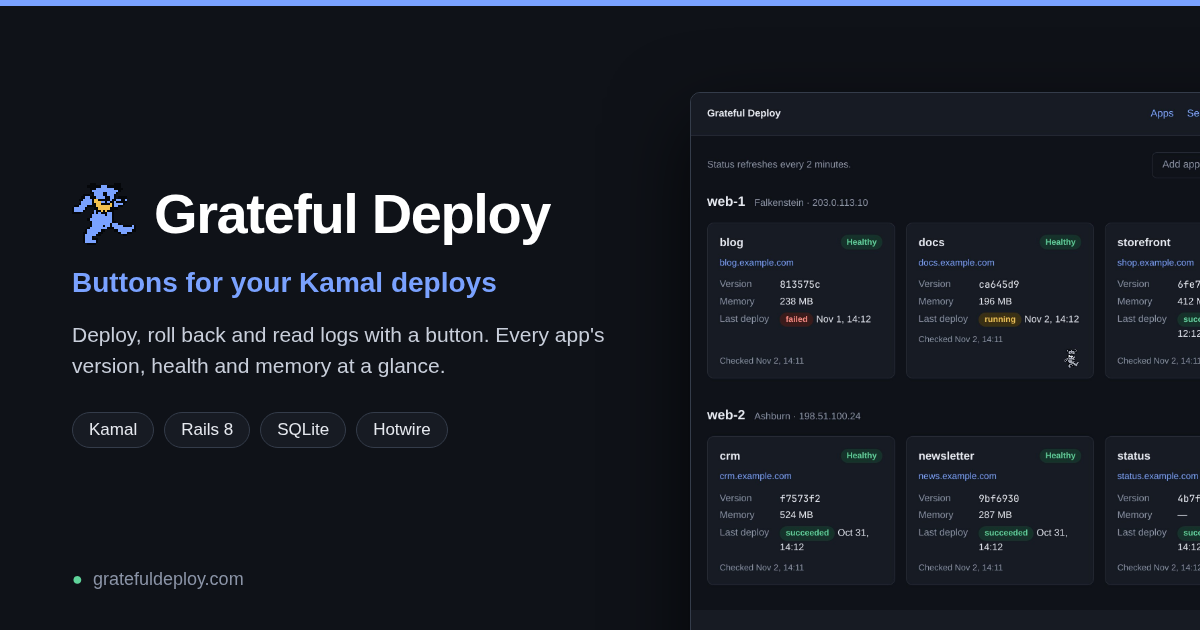
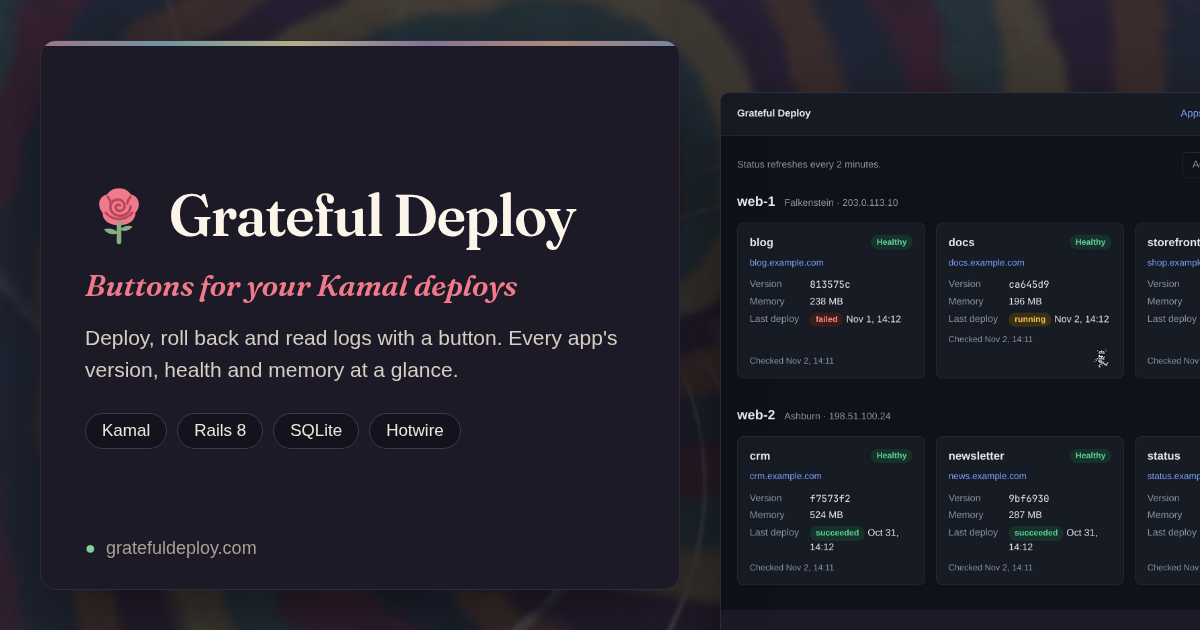
Rose mark and the day and night show themes
Fraunces wordmark and headings, the tie-dye stripe under the top bar, and the tie-dye backgrounds behind the page; the social card in the night show.

diff --git a/index.html b/index.html
@@ -21,51 +21,60 @@
   <meta name="twitter:image" content="https://gratefuldeploy.com/images/social-card.png">
   <meta name="twitter:image:alt" content="Grateful Deploy. Buttons for your Kamal deploys. Rails 8, SQLite, Hotwire.">
   <link rel="icon" href="favicon.svg" type="image/svg+xml">
+  <link rel="preconnect" href="https://fonts.googleapis.com">
+  <link rel="preconnect" href="https://fonts.gstatic.com" crossorigin>
+  <link rel="stylesheet" href="https://fonts.googleapis.com/css2?family=Fraunces:ital,opsz,wght@0,9..144,600;1,9..144,600&display=swap">
   <style>
-    /* Grateful Deploy's own tokens (app/assets/stylesheets/application.css). */
+    /* Grateful Deploy's day show (light) and night show (dark). */
     :root {
       color-scheme: light;
-      --bg: #f6f7f9;
-      --surface: #ffffff;
-      --border: #e3e6eb;
-      --border-strong: #cfd4dc;
-      --text: #1c2330;
-      --text-strong: #0f1520;
-      --muted: #6b7486;
-      --accent: #2456d6;
-      --accent-bg: #e8eefc;
-      --up: #1a7f4b;
-      --up-bg: #e3f5eb;
-      --warn: #9a6700;
-      --log-bg: #11151c;
-      --log-text: #d6dbe4;
-      --bear-outline: #14141e;
-      --bear-body: #2456d6;
-      --bear-collar: #f2c14e;
-      --shadow: 0 18px 50px rgba(15, 30, 60, 0.12);
+      --bg: #f6f0e4;
+      --surface: #fffcf6;
+      --border: #e7dccb;
+      --border-strong: #d9ccb8;
+      --text: #2a221e;
+      --text-strong: #1e1a18;
+      --muted: #6c5f55;
+      --on-page: #463b33;
+      --accent: #a8283c;
+      --on-accent: #ffffff;
+      --rose2: #76192a;
+      --blue: #2f5f8f;
+      --leaf: #4f7d4f;
+      --up: #2d6e45;
+      --log-bg: #1d1a28;
+      --log-text: #e9e1d4;
+      --log-dim: #a99f94;
+      --dye: #984f74, #559297, #d9c387, #5f4779, #b98366, #426085;
+      --dye-opacity: 0.75;
+      --tiedye: url(images/tiedye-light.webp);
+      --shadow: 0 18px 50px rgba(80, 50, 20, 0.12);
       --radius: 10px;
       --font: system-ui, -apple-system, "Segoe UI", sans-serif;
+      --display: "Fraunces", Georgia, serif;
       --mono: ui-monospace, "SF Mono", "JetBrains Mono", Menlo, monospace;
     }
     @media (prefers-color-scheme: dark) {
       :root {
         color-scheme: dark;
-        --bg: #0f1218;
-        --surface: #171b23;
-        --border: #262c37;
-        --border-strong: #343c4a;
-        --text: #e6e9ef;
-        --text-strong: #ffffff;
-        --muted: #8b94a7;
-        --accent: #7aa2ff;
-        --accent-bg: rgba(122, 162, 255, 0.12);
-        --up: #5fd39a;
-        --up-bg: #16322a;
-        --warn: #f2c14e;
-        --log-bg: #0b0e13;
-        --bear-outline: #05070a;
-        --bear-body: #7aa2ff;
-        --bear-collar: #f2c14e;
+        --bg: #14121c;
+        --surface: #1d1a28;
+        --border: #302b40;
+        --border-strong: #3d3752;
+        --text: #efe6d8;
+        --text-strong: #fbf5ea;
+        --muted: #a99f94;
+        --on-page: #d6cdc1;
+        --accent: #f07a8a;
+        --on-accent: #14121c;
+        --rose2: #b8475a;
+        --blue: #86aedb;
+        --leaf: #86b07f;
+        --up: #7fd39a;
+        --log-bg: #14121c;
+        --dye: #c08aa3, #86b5b8, #e0d0a0, #9a8bb2, #d0a68e, #8c9fbc;
+        --dye-opacity: 0.6;
+        --tiedye: url(images/tiedye-dark.webp);
         --shadow: 0 28px 70px rgba(0, 0, 0, 0.55);
       }
     }
@@ -74,12 +83,16 @@
     html, body {
       margin: 0;
       padding: 0;
-      background: var(--bg);
       color: var(--text);
       font: 16px/1.6 var(--font);
       -webkit-font-smoothing: antialiased;
     }
-    a { color: var(--accent); text-decoration: none; }
+    body {
+      background: var(--bg) var(--tiedye) center top / cover fixed no-repeat;
+      min-height: 100vh;
+      padding: 1px 0;
+    }
+    a { color: var(--blue); text-decoration: none; }
     a:hover { text-decoration: underline; }
     :focus-visible { outline: 2px solid var(--accent); outline-offset: 2px; }
     code {
@@ -93,7 +106,7 @@
 
     .shell {
       max-width: 1040px;
-      margin: 24px auto 40px;
+      margin: 32px auto 48px;
       background: var(--surface);
       border: 1px solid var(--border);
       border-radius: var(--radius);
@@ -106,42 +119,46 @@
       justify-content: space-between;
       gap: 16px;
       padding: 12px 24px;
-      border-bottom: 1px solid var(--border);
     }
+    .dye { height: 2px; background: linear-gradient(90deg, var(--dye)); opacity: var(--dye-opacity); }
     .brand {
       display: inline-flex;
       align-items: center;
       gap: 10px;
-      font-weight: 700;
+      font-family: var(--display);
+      font-size: 21px;
+      font-weight: 600;
       letter-spacing: -0.01em;
       color: var(--text);
       white-space: nowrap;
     }
     .brand:hover { text-decoration: none; }
-    .bear { display: block; shape-rendering: crispEdges; }
-    .bear .k { fill: var(--bear-outline); }
-    .bear .b { fill: var(--bear-body); }
-    .bear .y { fill: var(--bear-collar); }
+    .rose { display: block; }
+    .rose .petals { fill: var(--accent); }
+    .rose .folds { fill: none; stroke: var(--rose2); stroke-width: 0.9; stroke-linecap: round; }
+    .rose .stem { fill: none; stroke: var(--leaf); stroke-width: 1.6; stroke-linecap: round; }
+    .rose .leaf { fill: var(--leaf); }
     .topbar nav { display: flex; gap: 20px; font-size: 15px; }
+    .topbar nav a { color: var(--accent); }
 
     main { padding: 0 40px 32px; }
     section { padding: 44px 0; border-bottom: 1px solid var(--border); }
     section:last-of-type { border-bottom: 0; }
-    h2 { margin: 0 0 18px; font-size: 1.35rem; letter-spacing: -0.01em; color: var(--text-strong); }
+    h1, h2 { font-family: var(--display); font-weight: 600; color: var(--text-strong); }
+    h2 { margin: 0 0 18px; font-size: 1.6rem; letter-spacing: -0.01em; }
     p { margin: 0 0 14px; max-width: 66ch; }
     p:last-child { margin-bottom: 0; }
 
     .hero { display: grid; grid-template-columns: 1fr auto; gap: 32px; align-items: center; padding-top: 56px; }
-    .hero h1 { margin: 0 0 6px; font-size: 2.6rem; line-height: 1.1; letter-spacing: -0.025em; color: var(--text-strong); }
-    .tagline { margin: 0 0 22px; font-size: 1.2rem; color: var(--accent); font-weight: 600; }
+    .hero h1 { margin: 0 0 6px; font-size: 3rem; line-height: 1.05; letter-spacing: -0.02em; }
+    .tagline { margin: 0 0 22px; font-family: var(--display); font-style: italic; font-weight: 600; font-size: 1.35rem; color: var(--accent); }
     .hero p { font-size: 1.05rem; }
-    .hero .bear { width: 168px; height: auto; }
+    .hero .rose { width: 176px; height: 176px; }
     .callout {
       margin-top: 22px;
       padding: 12px 16px;
       border: 1px solid var(--border);
-      border-left: 3px solid var(--accent);
-      border-radius: 6px;
+      border-radius: 8px;
       background: var(--bg);
       color: var(--muted);
       max-width: 66ch;
@@ -160,8 +177,8 @@
       font-size: 0.95rem;
     }
     .button:hover { text-decoration: none; border-color: var(--accent); color: var(--accent); }
-    .button--primary { background: var(--accent); border-color: var(--accent); color: var(--surface); }
-    .button--primary:hover { color: var(--surface); filter: brightness(1.08); }
+    .button--primary { background: var(--accent); border-color: var(--accent); color: var(--on-accent); }
+    .button--primary:hover { color: var(--on-accent); filter: brightness(1.08); }
 
     .features {
       list-style: none;
@@ -192,7 +209,7 @@
     }
     figure.narrow { max-width: 820px; }
     figcaption { margin-top: 12px; font-size: 0.92rem; color: var(--muted); }
-    figcaption strong { color: var(--text-strong); margin-right: 8px; }
+    figcaption strong { font-family: var(--display); font-size: 1.05rem; color: var(--text-strong); margin-right: 8px; }
 
     .stack { display: flex; flex-wrap: wrap; gap: 8px; margin: 0 0 16px; padding: 0; list-style: none; }
     .stack li {
@@ -210,14 +227,14 @@
       margin: 0 0 16px;
       padding: 16px 18px;
       background: var(--log-bg);
-      border-radius: 8px;
+      border-radius: 10px;
       color: var(--log-text);
       font: 0.85rem/1.75 var(--mono);
       overflow-x: auto;
     }
     pre code { display: block; background: none; border: 0; padding: 0; color: inherit; font-size: inherit; }
-    pre .c { color: #7d8698; }
-    pre .p { color: #5fd39a; user-select: none; }
+    pre .c { color: var(--log-dim); }
+    pre .p { color: #7fd39a; user-select: none; }
 
     .statusbar {
       display: flex;
@@ -237,15 +254,17 @@
     .statusbar span + span::before { content: "\00b7"; margin: 0 8px; }
 
     @media (max-width: 720px) {
+      body { padding: 0; background-attachment: scroll; }
       .shell { margin: 0; border-radius: 0; border-left: 0; border-right: 0; border-top: 0; }
       .topbar { padding: 12px 16px; }
+      .brand { font-size: 19px; }
       .topbar nav { gap: 14px; font-size: 14px; }
       .topbar nav a:nth-child(n+3) { display: none; }
       main { padding: 0 16px 16px; }
       section { padding: 32px 0; }
       .hero { grid-template-columns: 1fr; padding-top: 36px; }
-      .hero .bear { display: none; }
-      .hero h1 { font-size: 2rem; }
+      .hero .rose { display: none; }
+      .hero h1 { font-size: 2.2rem; }
       .statusbar { flex-direction: column; align-items: flex-start; padding: 12px 16px; }
       .statusbar div:last-child > span { display: block; }
       .statusbar span + span::before { content: none; }
@@ -256,7 +275,7 @@
   <div class="shell">
     <header class="topbar">
       <a class="brand" href="https://gratefuldeploy.com/">
-        <svg class="bear" viewBox="0 0 29 28" width="22" height="21" aria-hidden="true" focusable="false"><path class="k" d="M8 0h3v1h-3zM19 0h3v1h-3zM7 1h6v1h-6zM16 1h6v1h-6zM8 2h3v1h-3zM19 2h4v1h-4zM8 3h1v1h-1zM21 3h1v1h-1zM8 4h2v1h-2zM14 4h2v1h-2zM20 4h1v1h-1zM5 5h3v1h-3zM9 5h1v1h-1zM14 5h2v1h-2zM19 5h1v1h-1zM4 6h2v1h-2zM8 6h3v1h-3zM15 6h2v1h-2zM19 6h1v1h-1zM21 6h4v1h-4zM3 7h2v1h-2zM9 7h1v1h-1zM12 7h5v1h-5zM18 7h2v1h-2zM22 7h2v1h-2zM9 8h1v1h-1zM15 8h1v1h-1zM17 8h2v1h-2zM20 8h5v1h-5zM3 9h1v1h-1zM9 9h2v1h-2zM13 9h4v1h-4zM18 9h1v1h-1zM23 9h1v1h-1zM1 10h2v1h-2zM7 10h4v1h-4zM18 10h1v1h-1zM21 10h2v1h-2zM0 11h1v1h-1zM6 11h1v1h-1zM10 11h2v1h-2zM17 11h4v1h-4zM0 12h1v1h-1zM5 12h1v1h-1zM11 12h2v1h-2zM14 12h1v1h-1zM16 12h3v1h-3zM0 13h4v1h-4zM9 13h1v1h-1zM11 13h1v1h-1zM13 13h3v1h-3zM18 13h1v1h-1zM8 14h1v1h-1zM15 14h1v1h-1zM18 14h1v1h-1zM8 15h1v1h-1zM18 15h1v1h-1zM7 16h1v1h-1zM18 16h1v1h-1zM8 17h1v1h-1zM18 17h2v1h-2zM8 18h1v1h-1zM17 18h1v1h-1zM21 18h1v1h-1zM8 19h1v1h-1zM14 19h1v1h-1zM17 19h1v1h-1zM23 19h4v1h-4zM28 19h1v1h-1zM7 20h1v1h-1zM16 20h3v1h-3zM28 20h1v1h-1zM6 21h1v1h-1zM13 21h2v1h-2zM19 21h2v1h-2zM27 21h2v1h-2zM5 22h2v1h-2zM12 22h2v1h-2zM21 22h1v1h-1zM25 22h2v1h-2zM5 23h1v1h-1zM11 23h2v1h-2zM23 23h2v1h-2zM5 24h1v1h-1zM9 24h1v1h-1zM5 25h1v1h-1zM9 25h3v1h-3zM5 26h1v1h-1zM11 26h1v1h-1zM7 27h4v1h-4z"/><path class="b" d="M13 1h3v1h-3zM11 2h8v1h-8zM9 3h12v1h-12zM10 4h4v1h-4zM16 4h4v1h-4zM10 5h4v1h-4zM16 5h3v1h-3zM6 6h2v1h-2zM11 6h4v1h-4zM17 6h2v1h-2zM5 7h4v1h-4zM17 7h1v1h-1zM20 7h2v1h-2zM24 7h1v1h-1zM4 8h5v1h-5zM13 8h2v1h-2zM16 8h1v1h-1zM19 8h1v1h-1zM4 9h5v1h-5zM19 9h4v1h-4zM3 10h4v1h-4zM19 10h2v1h-2zM1 11h5v1h-5zM1 12h4v1h-4zM10 12h1v1h-1zM10 13h1v1h-1zM12 13h1v1h-1zM16 13h2v1h-2zM9 14h6v1h-6zM16 14h2v1h-2zM9 15h9v1h-9zM8 16h10v1h-10zM9 17h9v1h-9zM9 18h8v1h-8zM18 18h3v1h-3zM9 19h5v1h-5zM15 19h2v1h-2zM18 19h5v1h-5zM27 19h1v1h-1zM8 20h8v1h-8zM19 20h9v1h-9zM7 21h6v1h-6zM21 21h6v1h-6zM7 22h5v1h-5zM22 22h3v1h-3zM6 23h5v1h-5zM6 24h3v1h-3zM6 25h3v1h-3zM6 26h5v1h-5z"/><path class="y" d="M10 7h2v1h-2zM10 8h3v1h-3zM11 9h2v1h-2zM17 9h1v1h-1zM11 10h7v1h-7zM12 11h5v1h-5zM13 12h1v1h-1zM15 12h1v1h-1z"/></svg>
+        <svg class="rose" viewBox="0 0 24 24" width="24" height="24" aria-hidden="true" focusable="false"><path class="petals" d="M12 2.6c2 0 3.4 1 4.2 2.2 1.6.3 2.8 1.6 2.8 3.4 0 1.3-.5 2.3-1.2 3 .1 2.3-1.9 4.4-5.8 4.4s-5.9-2.1-5.8-4.4c-.7-.7-1.2-1.7-1.2-3 0-1.8 1.2-3.1 2.8-3.4C8.6 3.6 10 2.6 12 2.6z"/><path class="folds" d="M12.4 8.6c-.6-.5-1.6-.2-1.6.7 0 1 1.2 1.6 2.2 1.1 1.2-.6 1.3-2.3.3-3.2-1.2-1.1-3.4-.8-4.1.8-.8 1.7.3 3.8 2.3 4.2 2.3.5 4.4-1 4.6-3.2M7.3 11.2c1.3 1.5 2.9 2.2 4.7 2.2s3.4-.7 4.7-2.2M8 5.6c.6.6 1 1.4 1.1 2.3M16 5.6c-.6.6-1 1.4-1.1 2.3"/><path class="stem" d="M12 15V21.5"/><path class="leaf" d="M12 18.4c-1.9-1.7-4-1.9-5.3-1.3 1.1 1.7 3.2 2.1 5.3 1.3z"/><path class="leaf" d="M12 17.2c1.7-1.5 3.6-1.7 4.8-1.1-1 1.5-2.8 1.9-4.8 1.1z"/></svg>
         Grateful Deploy
       </a>
       <nav>
@@ -266,6 +285,7 @@
         <a href="https://github.com/joelgaff/Grateful-Deploy">GitHub</a>
       </nav>
     </header>
+    <div class="dye" aria-hidden="true"></div>
 
     <main>
       <section class="hero">
@@ -282,7 +302,7 @@
             <a class="button" href="#quickstart">Quick start</a>
           </div>
         </div>
-        <svg class="bear" viewBox="0 0 29 28" width="168" height="162" aria-hidden="true" focusable="false"><path class="k" d="M8 0h3v1h-3zM19 0h3v1h-3zM7 1h6v1h-6zM16 1h6v1h-6zM8 2h3v1h-3zM19 2h4v1h-4zM8 3h1v1h-1zM21 3h1v1h-1zM8 4h2v1h-2zM14 4h2v1h-2zM20 4h1v1h-1zM5 5h3v1h-3zM9 5h1v1h-1zM14 5h2v1h-2zM19 5h1v1h-1zM4 6h2v1h-2zM8 6h3v1h-3zM15 6h2v1h-2zM19 6h1v1h-1zM21 6h4v1h-4zM3 7h2v1h-2zM9 7h1v1h-1zM12 7h5v1h-5zM18 7h2v1h-2zM22 7h2v1h-2zM9 8h1v1h-1zM15 8h1v1h-1zM17 8h2v1h-2zM20 8h5v1h-5zM3 9h1v1h-1zM9 9h2v1h-2zM13 9h4v1h-4zM18 9h1v1h-1zM23 9h1v1h-1zM1 10h2v1h-2zM7 10h4v1h-4zM18 10h1v1h-1zM21 10h2v1h-2zM0 11h1v1h-1zM6 11h1v1h-1zM10 11h2v1h-2zM17 11h4v1h-4zM0 12h1v1h-1zM5 12h1v1h-1zM11 12h2v1h-2zM14 12h1v1h-1zM16 12h3v1h-3zM0 13h4v1h-4zM9 13h1v1h-1zM11 13h1v1h-1zM13 13h3v1h-3zM18 13h1v1h-1zM8 14h1v1h-1zM15 14h1v1h-1zM18 14h1v1h-1zM8 15h1v1h-1zM18 15h1v1h-1zM7 16h1v1h-1zM18 16h1v1h-1zM8 17h1v1h-1zM18 17h2v1h-2zM8 18h1v1h-1zM17 18h1v1h-1zM21 18h1v1h-1zM8 19h1v1h-1zM14 19h1v1h-1zM17 19h1v1h-1zM23 19h4v1h-4zM28 19h1v1h-1zM7 20h1v1h-1zM16 20h3v1h-3zM28 20h1v1h-1zM6 21h1v1h-1zM13 21h2v1h-2zM19 21h2v1h-2zM27 21h2v1h-2zM5 22h2v1h-2zM12 22h2v1h-2zM21 22h1v1h-1zM25 22h2v1h-2zM5 23h1v1h-1zM11 23h2v1h-2zM23 23h2v1h-2zM5 24h1v1h-1zM9 24h1v1h-1zM5 25h1v1h-1zM9 25h3v1h-3zM5 26h1v1h-1zM11 26h1v1h-1zM7 27h4v1h-4z"/><path class="b" d="M13 1h3v1h-3zM11 2h8v1h-8zM9 3h12v1h-12zM10 4h4v1h-4zM16 4h4v1h-4zM10 5h4v1h-4zM16 5h3v1h-3zM6 6h2v1h-2zM11 6h4v1h-4zM17 6h2v1h-2zM5 7h4v1h-4zM17 7h1v1h-1zM20 7h2v1h-2zM24 7h1v1h-1zM4 8h5v1h-5zM13 8h2v1h-2zM16 8h1v1h-1zM19 8h1v1h-1zM4 9h5v1h-5zM19 9h4v1h-4zM3 10h4v1h-4zM19 10h2v1h-2zM1 11h5v1h-5zM1 12h4v1h-4zM10 12h1v1h-1zM10 13h1v1h-1zM12 13h1v1h-1zM16 13h2v1h-2zM9 14h6v1h-6zM16 14h2v1h-2zM9 15h9v1h-9zM8 16h10v1h-10zM9 17h9v1h-9zM9 18h8v1h-8zM18 18h3v1h-3zM9 19h5v1h-5zM15 19h2v1h-2zM18 19h5v1h-5zM27 19h1v1h-1zM8 20h8v1h-8zM19 20h9v1h-9zM7 21h6v1h-6zM21 21h6v1h-6zM7 22h5v1h-5zM22 22h3v1h-3zM6 23h5v1h-5zM6 24h3v1h-3zM6 25h3v1h-3zM6 26h5v1h-5z"/><path class="y" d="M10 7h2v1h-2zM10 8h3v1h-3zM11 9h2v1h-2zM17 9h1v1h-1zM11 10h7v1h-7zM12 11h5v1h-5zM13 12h1v1h-1zM15 12h1v1h-1z"/></svg>
+        <svg class="rose" viewBox="0 0 24 24" width="176" height="176" aria-hidden="true" focusable="false"><path class="petals" d="M12 2.6c2 0 3.4 1 4.2 2.2 1.6.3 2.8 1.6 2.8 3.4 0 1.3-.5 2.3-1.2 3 .1 2.3-1.9 4.4-5.8 4.4s-5.9-2.1-5.8-4.4c-.7-.7-1.2-1.7-1.2-3 0-1.8 1.2-3.1 2.8-3.4C8.6 3.6 10 2.6 12 2.6z"/><path class="folds" d="M12.4 8.6c-.6-.5-1.6-.2-1.6.7 0 1 1.2 1.6 2.2 1.1 1.2-.6 1.3-2.3.3-3.2-1.2-1.1-3.4-.8-4.1.8-.8 1.7.3 3.8 2.3 4.2 2.3.5 4.4-1 4.6-3.2M7.3 11.2c1.3 1.5 2.9 2.2 4.7 2.2s3.4-.7 4.7-2.2M8 5.6c.6.6 1 1.4 1.1 2.3M16 5.6c-.6.6-1 1.4-1.1 2.3"/><path class="stem" d="M12 15V21.5"/><path class="leaf" d="M12 18.4c-1.9-1.7-4-1.9-5.3-1.3 1.1 1.7 3.2 2.1 5.3 1.3z"/><path class="leaf" d="M12 17.2c1.7-1.5 3.6-1.7 4.8-1.1-1 1.5-2.8 1.9-4.8 1.1z"/></svg>
       </section>
 
       <section id="features">

diff --git a/images/social-card.html b/images/social-card.html
@@ -2,46 +2,50 @@
 <!-- Source for social-card.png. Re-render with:
      chromium --headless=new --hide-scrollbars --force-device-scale-factor=1 --window-size=1200,630 --screenshot=social-card.png social-card.html -->
 <html lang="en"><head><meta charset="utf-8">
+<link rel="stylesheet" href="https://fonts.googleapis.com/css2?family=Fraunces:ital,opsz,wght@0,9..144,600;1,9..144,600&display=swap">
 <style>
   * { box-sizing: border-box; }
   html, body { margin: 0; width: 1200px; height: 630px; overflow: hidden; }
   body {
-    background: #0f1218;
-    color: #e6e9ef;
+    background: #14121c url(tiedye-dark.webp) center / cover no-repeat;
+    color: #efe6d8;
     font-family: system-ui, -apple-system, "Segoe UI", sans-serif;
     position: relative;
     -webkit-font-smoothing: antialiased;
   }
-  .edge { position: absolute; top: 0; left: 0; right: 0; height: 6px; background: #7aa2ff; }
-  .left { position: absolute; left: 72px; top: 0; bottom: 0; width: 560px;
+  .panel { position: absolute; left: 40px; top: 40px; bottom: 40px; width: 640px; border-radius: 16px;
+    background: #1d1a28; border: 1px solid #302b40; box-shadow: 0 30px 80px rgba(0,0,0,0.5); overflow: hidden; }
+  .dye { position: absolute; left: 0; right: 0; top: 0; height: 5px; opacity: 0.8;
+    background: linear-gradient(90deg, #c08aa3, #86b5b8, #e0d0a0, #9a8bb2, #d0a68e, #8c9fbc); }
+  .left { position: absolute; left: 44px; top: 0; bottom: 0; width: 560px;
     display: flex; flex-direction: column; justify-content: center; }
-  .brand { display: flex; align-items: center; gap: 18px; margin-bottom: 22px; }
-  .bear { display: block; shape-rendering: crispEdges; }
-  .bear .k { fill: #05070a; } .bear .b { fill: #7aa2ff; } .bear .y { fill: #f2c14e; }
-  .wordmark { font-size: 56px; line-height: 1; font-weight: 700; letter-spacing: -0.025em; color: #ffffff; white-space: nowrap; }
-  .tagline { font-size: 28px; color: #7aa2ff; font-weight: 600; margin: 0 0 20px; }
-  .pitch { font-size: 21px; line-height: 1.5; color: #c9cfdb; margin: 0 0 30px; max-width: 540px; }
+  .brand { display: flex; align-items: center; gap: 16px; margin-bottom: 18px; }
+  .rose .petals { fill: #f07a8a; } .rose .folds { fill: none; stroke: #b8475a; stroke-width: 0.9; stroke-linecap: round; }
+  .rose .stem { fill: none; stroke: #86b07f; stroke-width: 1.6; stroke-linecap: round; } .rose .leaf { fill: #86b07f; }
+  .wordmark { font-family: "Fraunces", Georgia, serif; font-size: 58px; line-height: 1; font-weight: 600; letter-spacing: -0.02em; color: #fbf5ea; white-space: nowrap; }
+  .tagline { font-family: "Fraunces", Georgia, serif; font-style: italic; font-weight: 600; font-size: 30px; color: #f07a8a; margin: 0 0 18px; }
+  .pitch { font-size: 21px; line-height: 1.5; color: #d6cdc1; margin: 0 0 28px; }
   .chips { display: flex; flex-wrap: wrap; gap: 10px; }
-  .chips span { padding: 7px 16px; border: 1px solid #343c4a; border-radius: 999px;
-    background: #171b23; color: #e6e9ef; font-size: 17px; }
-  .url { position: absolute; left: 72px; bottom: 40px; font-size: 18px; color: #8b94a7; }
-  .url b { color: #5fd39a; font-weight: 400; margin-right: 10px; }
-  .shot { position: absolute; left: 690px; top: 92px; width: 620px; height: 655px;
-    border: 1px solid #343c4a; border-radius: 10px; overflow: hidden;
-    background: #171b23; box-shadow: 0 30px 80px rgba(0,0,0,0.7); }
+  .chips span { padding: 7px 16px; border: 1px solid #3d3752; border-radius: 999px; background: #14121c; color: #efe6d8; font-size: 17px; }
+  .url { position: absolute; left: 44px; bottom: 30px; font-size: 18px; color: #a99f94; }
+  .url b { color: #7fd39a; font-weight: 400; margin-right: 10px; }
+  .shot { position: absolute; left: 720px; top: 92px; width: 620px; height: 655px;
+    border: 1px solid #302b40; border-radius: 10px; overflow: hidden; background: #1d1a28; box-shadow: 0 30px 80px rgba(0,0,0,0.7); }
   .shot img { display: block; width: 100%; height: auto; }
 </style></head>
 <body>
-  <div class="edge"></div>
-  <div class="left">
-    <div class="brand">
-      <svg class="bear" viewBox="0 0 29 28" width="64" height="62" aria-hidden="true" focusable="false"><path class="k" d="M8 0h3v1h-3zM19 0h3v1h-3zM7 1h6v1h-6zM16 1h6v1h-6zM8 2h3v1h-3zM19 2h4v1h-4zM8 3h1v1h-1zM21 3h1v1h-1zM8 4h2v1h-2zM14 4h2v1h-2zM20 4h1v1h-1zM5 5h3v1h-3zM9 5h1v1h-1zM14 5h2v1h-2zM19 5h1v1h-1zM4 6h2v1h-2zM8 6h3v1h-3zM15 6h2v1h-2zM19 6h1v1h-1zM21 6h4v1h-4zM3 7h2v1h-2zM9 7h1v1h-1zM12 7h5v1h-5zM18 7h2v1h-2zM22 7h2v1h-2zM9 8h1v1h-1zM15 8h1v1h-1zM17 8h2v1h-2zM20 8h5v1h-5zM3 9h1v1h-1zM9 9h2v1h-2zM13 9h4v1h-4zM18 9h1v1h-1zM23 9h1v1h-1zM1 10h2v1h-2zM7 10h4v1h-4zM18 10h1v1h-1zM21 10h2v1h-2zM0 11h1v1h-1zM6 11h1v1h-1zM10 11h2v1h-2zM17 11h4v1h-4zM0 12h1v1h-1zM5 12h1v1h-1zM11 12h2v1h-2zM14 12h1v1h-1zM16 12h3v1h-3zM0 13h4v1h-4zM9 13h1v1h-1zM11 13h1v1h-1zM13 13h3v1h-3zM18 13h1v1h-1zM8 14h1v1h-1zM15 14h1v1h-1zM18 14h1v1h-1zM8 15h1v1h-1zM18 15h1v1h-1zM7 16h1v1h-1zM18 16h1v1h-1zM8 17h1v1h-1zM18 17h2v1h-2zM8 18h1v1h-1zM17 18h1v1h-1zM21 18h1v1h-1zM8 19h1v1h-1zM14 19h1v1h-1zM17 19h1v1h-1zM23 19h4v1h-4zM28 19h1v1h-1zM7 20h1v1h-1zM16 20h3v1h-3zM28 20h1v1h-1zM6 21h1v1h-1zM13 21h2v1h-2zM19 21h2v1h-2zM27 21h2v1h-2zM5 22h2v1h-2zM12 22h2v1h-2zM21 22h1v1h-1zM25 22h2v1h-2zM5 23h1v1h-1zM11 23h2v1h-2zM23 23h2v1h-2zM5 24h1v1h-1zM9 24h1v1h-1zM5 25h1v1h-1zM9 25h3v1h-3zM5 26h1v1h-1zM11 26h1v1h-1zM7 27h4v1h-4z"/><path class="b" d="M13 1h3v1h-3zM11 2h8v1h-8zM9 3h12v1h-12zM10 4h4v1h-4zM16 4h4v1h-4zM10 5h4v1h-4zM16 5h3v1h-3zM6 6h2v1h-2zM11 6h4v1h-4zM17 6h2v1h-2zM5 7h4v1h-4zM17 7h1v1h-1zM20 7h2v1h-2zM24 7h1v1h-1zM4 8h5v1h-5zM13 8h2v1h-2zM16 8h1v1h-1zM19 8h1v1h-1zM4 9h5v1h-5zM19 9h4v1h-4zM3 10h4v1h-4zM19 10h2v1h-2zM1 11h5v1h-5zM1 12h4v1h-4zM10 12h1v1h-1zM10 13h1v1h-1zM12 13h1v1h-1zM16 13h2v1h-2zM9 14h6v1h-6zM16 14h2v1h-2zM9 15h9v1h-9zM8 16h10v1h-10zM9 17h9v1h-9zM9 18h8v1h-8zM18 18h3v1h-3zM9 19h5v1h-5zM15 19h2v1h-2zM18 19h5v1h-5zM27 19h1v1h-1zM8 20h8v1h-8zM19 20h9v1h-9zM7 21h6v1h-6zM21 21h6v1h-6zM7 22h5v1h-5zM22 22h3v1h-3zM6 23h5v1h-5zM6 24h3v1h-3zM6 25h3v1h-3zM6 26h5v1h-5z"/><path class="y" d="M10 7h2v1h-2zM10 8h3v1h-3zM11 9h2v1h-2zM17 9h1v1h-1zM11 10h7v1h-7zM12 11h5v1h-5zM13 12h1v1h-1zM15 12h1v1h-1z"/></svg>
-      <div class="wordmark">Grateful Deploy</div>
-    </div>
-    <p class="tagline">Buttons for your Kamal deploys</p>
-    <p class="pitch">Deploy, roll back and read logs with a button. Every app's version, health and memory at a glance.</p>
-    <div class="chips"><span>Kamal</span><span>Rails 8</span><span>SQLite</span><span>Hotwire</span></div>
-  </div>
-  <div class="url"><b>&#9679;</b>gratefuldeploy.com</div>
   <div class="shot"><img src="../screenshots/dashboard-dark.jpg" alt=""></div>
+  <div class="panel">
+    <div class="dye"></div>
+    <div class="left">
+      <div class="brand">
+        <svg class="rose" viewBox="0 0 24 24" width="68" height="68" aria-hidden="true"><path class="petals" d="M12 2.6c2 0 3.4 1 4.2 2.2 1.6.3 2.8 1.6 2.8 3.4 0 1.3-.5 2.3-1.2 3 .1 2.3-1.9 4.4-5.8 4.4s-5.9-2.1-5.8-4.4c-.7-.7-1.2-1.7-1.2-3 0-1.8 1.2-3.1 2.8-3.4C8.6 3.6 10 2.6 12 2.6z"/><path class="folds" d="M12.4 8.6c-.6-.5-1.6-.2-1.6.7 0 1 1.2 1.6 2.2 1.1 1.2-.6 1.3-2.3.3-3.2-1.2-1.1-3.4-.8-4.1.8-.8 1.7.3 3.8 2.3 4.2 2.3.5 4.4-1 4.6-3.2M7.3 11.2c1.3 1.5 2.9 2.2 4.7 2.2s3.4-.7 4.7-2.2M8 5.6c.6.6 1 1.4 1.1 2.3M16 5.6c-.6.6-1 1.4-1.1 2.3"/><path class="stem" d="M12 15V21.5"/><path class="leaf" d="M12 18.4c-1.9-1.7-4-1.9-5.3-1.3 1.1 1.7 3.2 2.1 5.3 1.3z"/><path class="leaf" d="M12 17.2c1.7-1.5 3.6-1.7 4.8-1.1-1 1.5-2.8 1.9-4.8 1.1z"/></svg>
+        <div class="wordmark">Grateful Deploy</div>
+      </div>
+      <p class="tagline">Buttons for your Kamal deploys</p>
+      <p class="pitch">Deploy, roll back and read logs with a button. Every app's version, health and memory at a glance.</p>
+      <div class="chips"><span>Kamal</span><span>Rails 8</span><span>SQLite</span><span>Hotwire</span></div>
+    </div>
+    <div class="url"><b>&#9679;</b>gratefuldeploy.com</div>
+  </div>
 </body></html>
